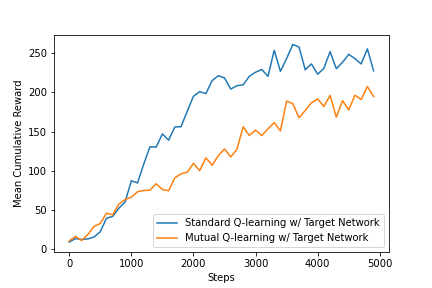
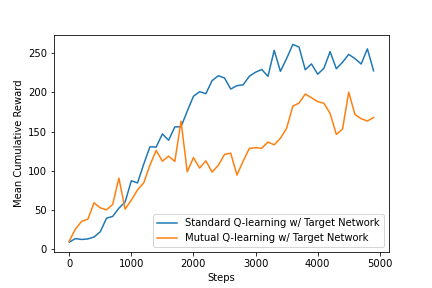
Update experiment & remove some old/unused methods

Changed region(s): [[0.1505, 0.2812, 0.8727, 0.8438]]

diff --git a/qlearner.py b/qlearner.py
@@ -68,17 +68,6 @@ class QLearning(Learner):
 	def set_mutual_steps(self, steps):
 		self._mutual_steps = steps
 
-	def _mutual_loss_weight(self):
-		return (-1 / (1 + np.e ** ((-(self._steps - self._mutual_steps))/500))) + 1
-
-	def _compute_mutual_loss(self, y_pred, X):
-		if self._mutual_hook is None:
-			return 0
-
-		mut, evl = self._mutual_hook(X)
-
-		return self._base_loss_fn(mut, y_pred)
-
 	def learn(self, batch_size=32, n_samples=32):
 		if len(self._memory) < n_samples:
 			return 'n/a'
